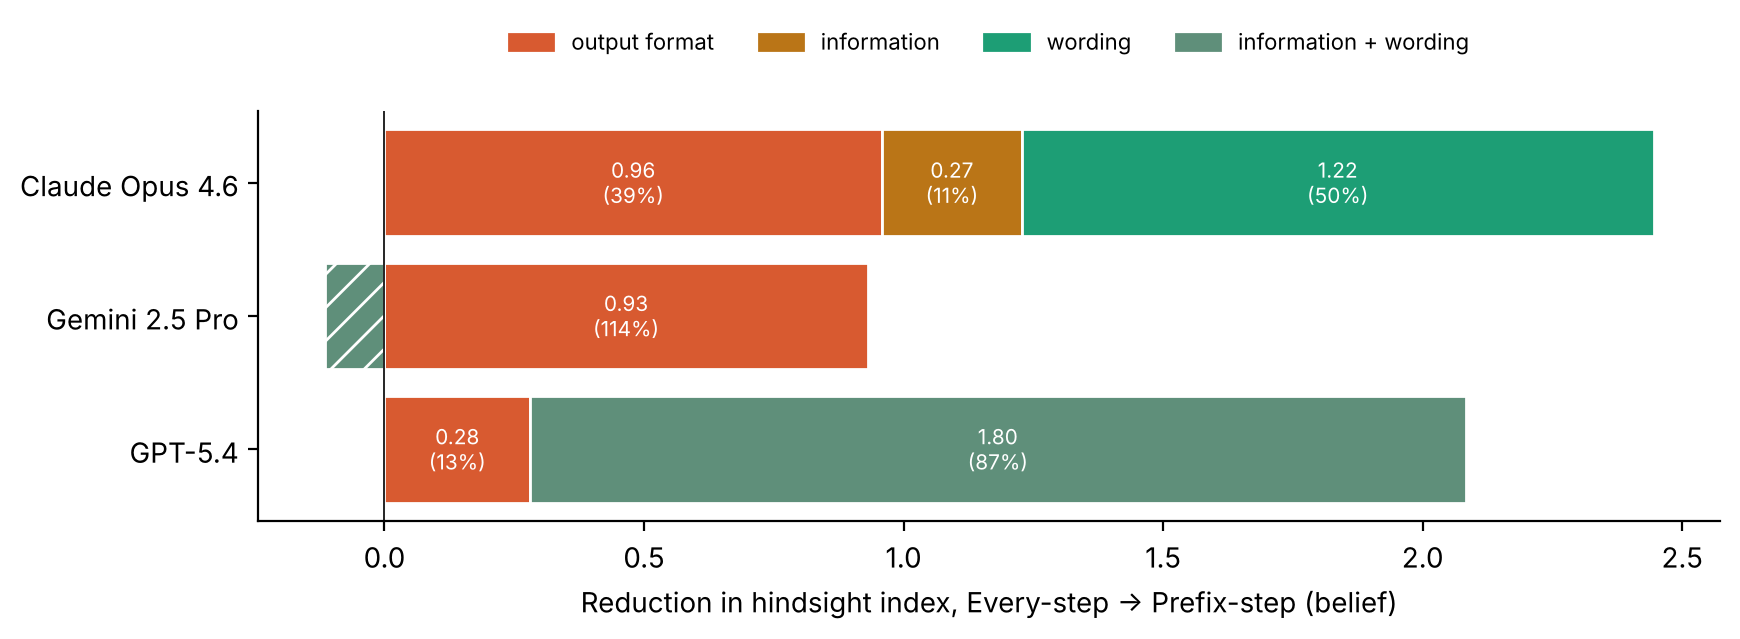
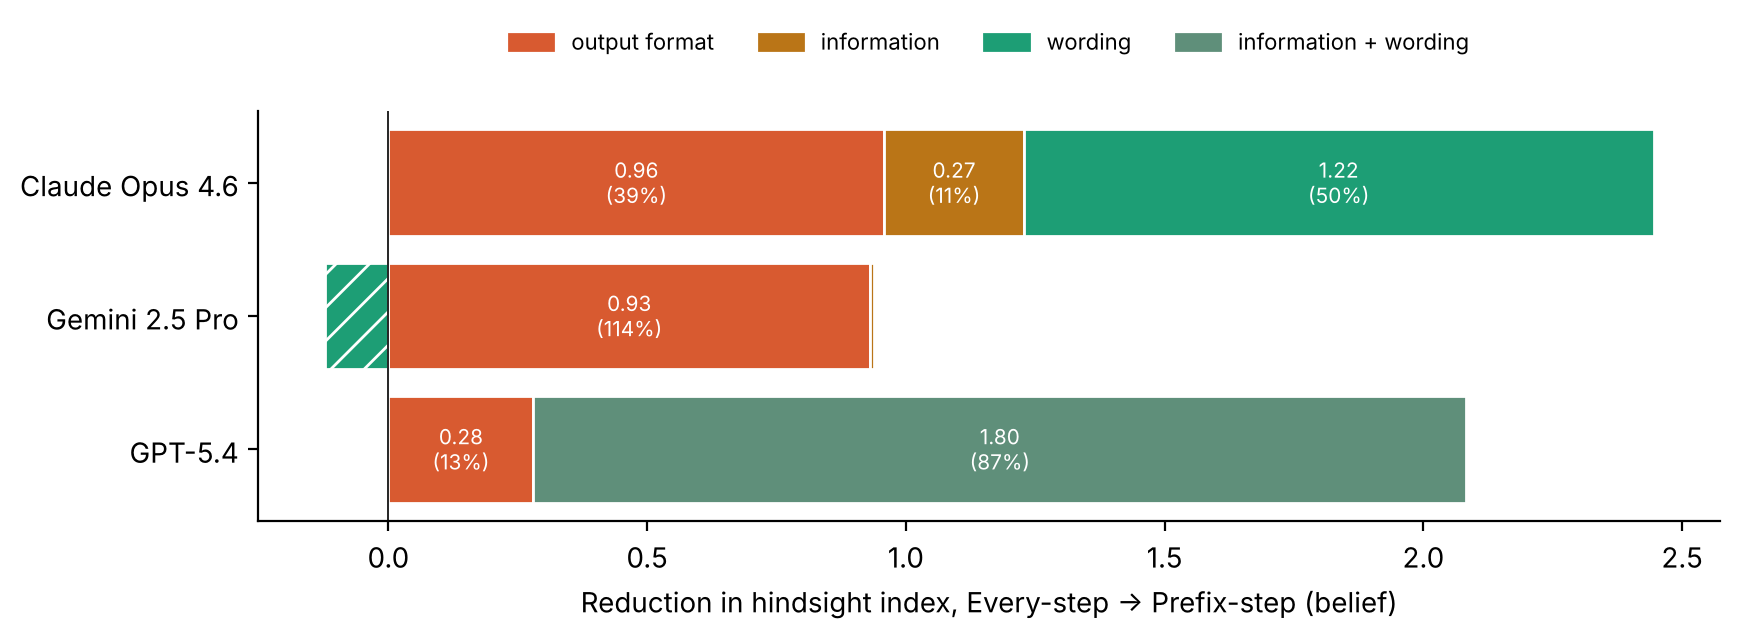
Gemini four-condition figure (R2b), Gemini Single-trunc in R3, U1 with all available conditions
Claude-Session: https://claude.ai/code/session_01QAKBEtsvJW6UqNEF9rWiR3

diff --git a/analysis/plot_trunc_figures.py b/analysis/plot_trunc_figures.py
@@ -99,7 +99,7 @@ def fig_r0(out, T=8, tq=4):
     print(f"✅ saved: {out}")
 
 
-def fig_r2(d, model, out):
+def fig_r2(d, model, out, note="five runs per condition"):
     s = pd.read_csv(os.path.join(d, "stepwise_bootstrap_summary.csv"))
     f = pd.read_csv(os.path.join(d, "final_step.csv"))
     pull = pd.read_csv(os.path.join(d, "truth_leak_index.csv"))
@@ -144,15 +144,17 @@ def fig_r2(d, model, out):
     ax[2].text(3.45, -0.47, "Prefix at t = T uses the End-step prompt\n(run-to-run reliability)", fontsize=8,
                color="gray", ha="right", va="bottom")
     gh = fb[fb.versus == "Human"].set_index("condition")
+    lines = []
     if "End-step" in gh.index:
-        v = gh.loc["End-step", "r"]
-        ax[3].axhline(v, ls="--", c=COL["Prefix-step"], lw=0.9)
-        ax[3].text(-0.45, v - 0.07, f"End-step {v:.2f}", fontsize=8, color=COL["Prefix-step"])
+        lines.append(("End-step", gh.loc["End-step", "r"], "--", COL["Prefix-step"]))
     if "BToM" in gh.index:
-        v = gh.loc["BToM", "r"]
-        ax[3].axhline(v, ls=":", c="gray", lw=0.9)
-        ax[3].text(-0.45, v + 0.03, f"BToM–human {v:.2f}", fontsize=8, color="gray")
-    fig.suptitle(f"{model}: belief ratings, five runs per condition", fontsize=11, y=1.02)
+        lines.append(("BToM–human", gh.loc["BToM", "r"], ":", "gray"))
+    lines.sort(key=lambda z: z[1])
+    for k, (lab, v, ls, c) in enumerate(lines):
+        ax[3].axhline(v, ls=ls, c=c, lw=0.9)
+        dy = -0.075 if (k == 0 and len(lines) > 1) else 0.025      # 낮은 선은 아래, 높은 선은 위에 표기
+        ax[3].text(-0.45, v + dy, f"{lab} {v:.2f}", fontsize=8, color=c)
+    fig.suptitle(f"{model}: belief ratings, {note}", fontsize=11, y=1.02)
     fig.tight_layout()
     fig.savefig(out, dpi=200, bbox_inches="tight")
     plt.close(fig)
@@ -202,8 +204,9 @@ def fig_r3(models, dirs, out, n_boot=2000, seed=0):
         for _, r in R[(R.model == m) & (R.term != "total")].iterrows():
             if r.estimate >= 0:
                 ax.barh(i, r.estimate, left=pos, color=cc[r.term], edgecolor="white")
-                ax.text(pos + r.estimate / 2, i, f"{r.estimate:.2f}\n({r.share:.0%})", ha="center", va="center",
-                        fontsize=7.5, color="white")
+                if r.estimate >= 0.15:          # 좁은 구간은 숫자 생략 (csv에 있음)
+                    ax.text(pos + r.estimate / 2, i, f"{r.estimate:.2f}\n({r.share:.0%})", ha="center", va="center",
+                            fontsize=7.5, color="white")
                 pos += r.estimate
             else:
                 ax.barh(i, r.estimate, left=neg, color=cc[r.term], edgecolor="white", hatch="//")
@@ -226,6 +229,8 @@ def main():
     ap = argparse.ArgumentParser(description=__doc__, formatter_class=argparse.RawDescriptionHelpFormatter)
     ap.add_argument("--r2_dir")
     ap.add_argument("--r2_model", default="")
+    ap.add_argument("--r2_name", default="R2_opus_four_conditions.png", help="R2 출력 파일 이름")
+    ap.add_argument("--r2_note", default="five runs per condition", help="R2 제목 뒤 설명")
     ap.add_argument("--models", nargs="+")
     ap.add_argument("--compare", nargs="+")
     ap.add_argument("--out_dir", required=True)
@@ -235,7 +240,7 @@ def main():
     if a.design:
         fig_r0(os.path.join(a.out_dir, "R0_condition_design.png"))
     if a.r2_dir:
-        fig_r2(a.r2_dir, a.r2_model, os.path.join(a.out_dir, "R2_opus_four_conditions.png"))
+        fig_r2(a.r2_dir, a.r2_model, os.path.join(a.out_dir, a.r2_name), a.r2_note)
     if a.models:
         fig_r3(a.models, a.compare, os.path.join(a.out_dir, "R3_factor_decomposition.png"))
 
